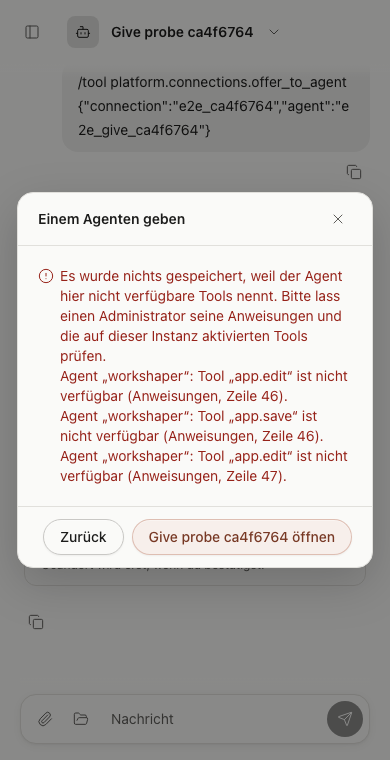
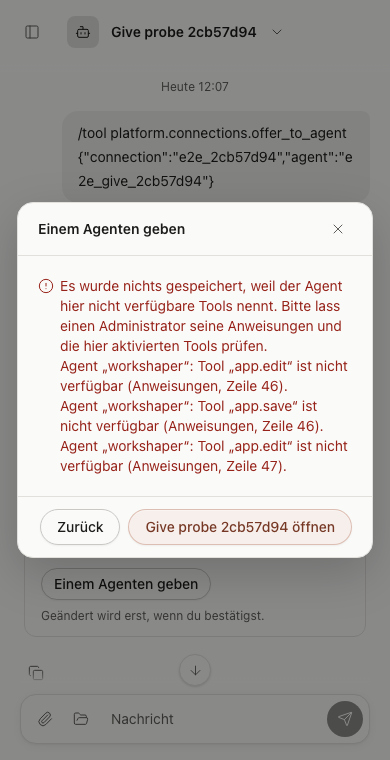
fix: use plain language in agent tool refusal guidance

Changed region(s): [[0.0308, 0.0908, 0.9538, 0.6355], [0.0308, 0.6658, 0.9538, 0.8171], [0.4615, 0.0303, 0.6462, 0.0605]]

diff --git a/packages/chat-ui/src/shared/i18n/build.ts b/packages/chat-ui/src/shared/i18n/build.ts
@@ -5,7 +5,7 @@ export const build = defineTranslations({
   en: {
     "build.instructionsLine": "instructions, line {line}",
     "build.refusedAgentTools":
-      "Nothing was saved because the agent refers to tools unavailable here. Ask an administrator to check its instructions and the tools enabled on this instance.",
+      "Nothing was saved because the agent refers to tools unavailable here. Ask an administrator to check its instructions and which tools are enabled here.",
     "build.refusedAgentTool": "Agent ‘{agent}’: tool ‘{tool}’ is unavailable ({location}).",
     "build.examples": "Examples to start with",
     "build.changeCount": "{count} change",
@@ -200,7 +200,7 @@ export const build = defineTranslations({
   de: {
     "build.instructionsLine": "Anweisungen, Zeile {line}",
     "build.refusedAgentTools":
-      "Es wurde nichts gespeichert, weil der Agent hier nicht verfügbare Tools nennt. Bitte lass einen Administrator seine Anweisungen und die auf dieser Instanz aktivierten Tools prüfen.",
+      "Es wurde nichts gespeichert, weil der Agent hier nicht verfügbare Tools nennt. Bitte lass einen Administrator seine Anweisungen und die hier aktivierten Tools prüfen.",
     "build.refusedAgentTool": "Agent „{agent}“: Tool „{tool}“ ist nicht verfügbar ({location}).",
     "build.examples": "Beispiele für den Einstieg",
     "build.changeCount": "{count} Änderung",
